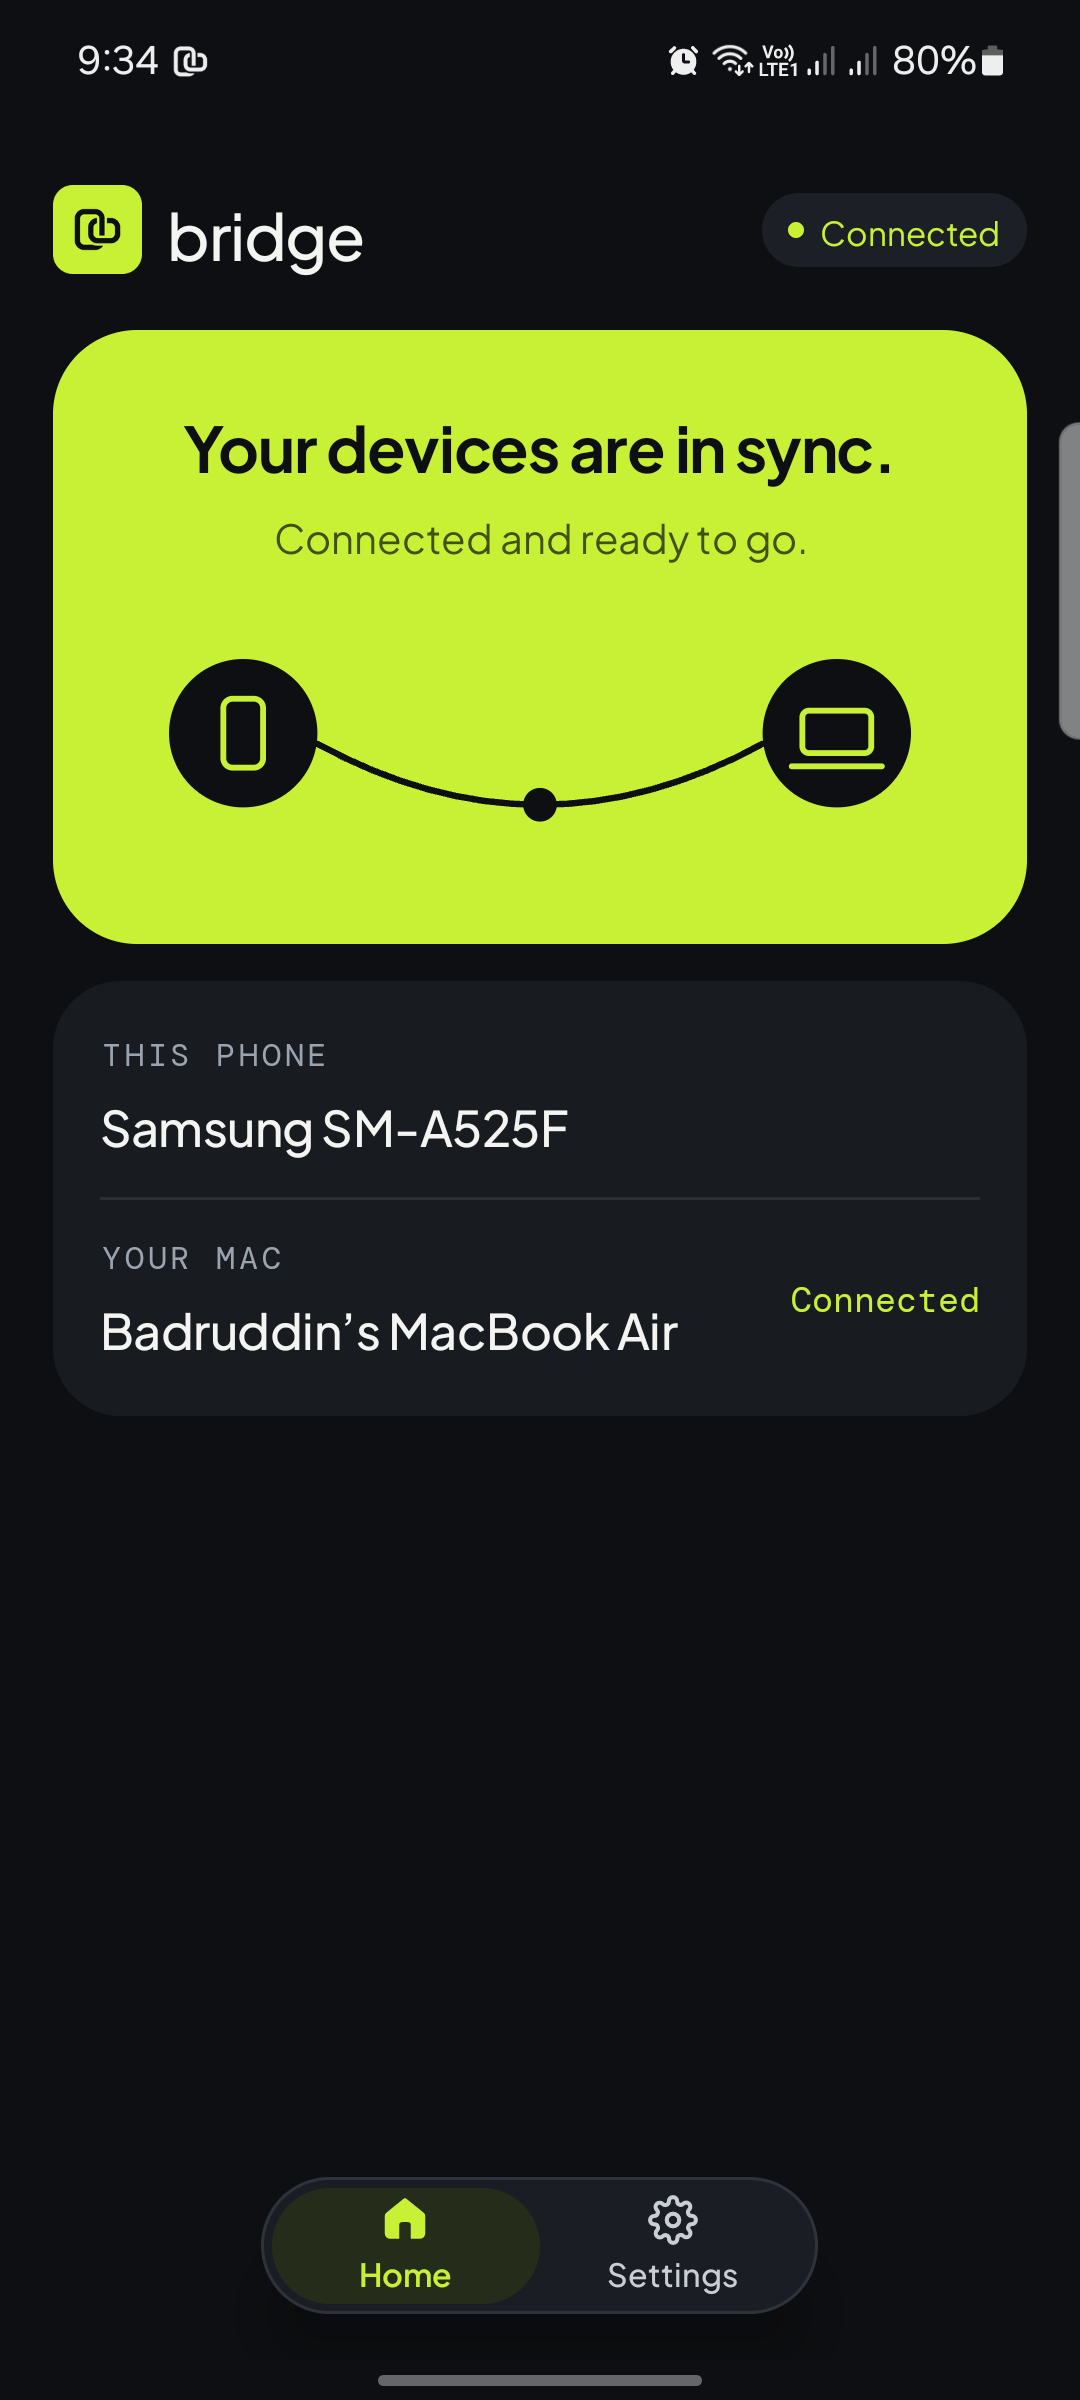
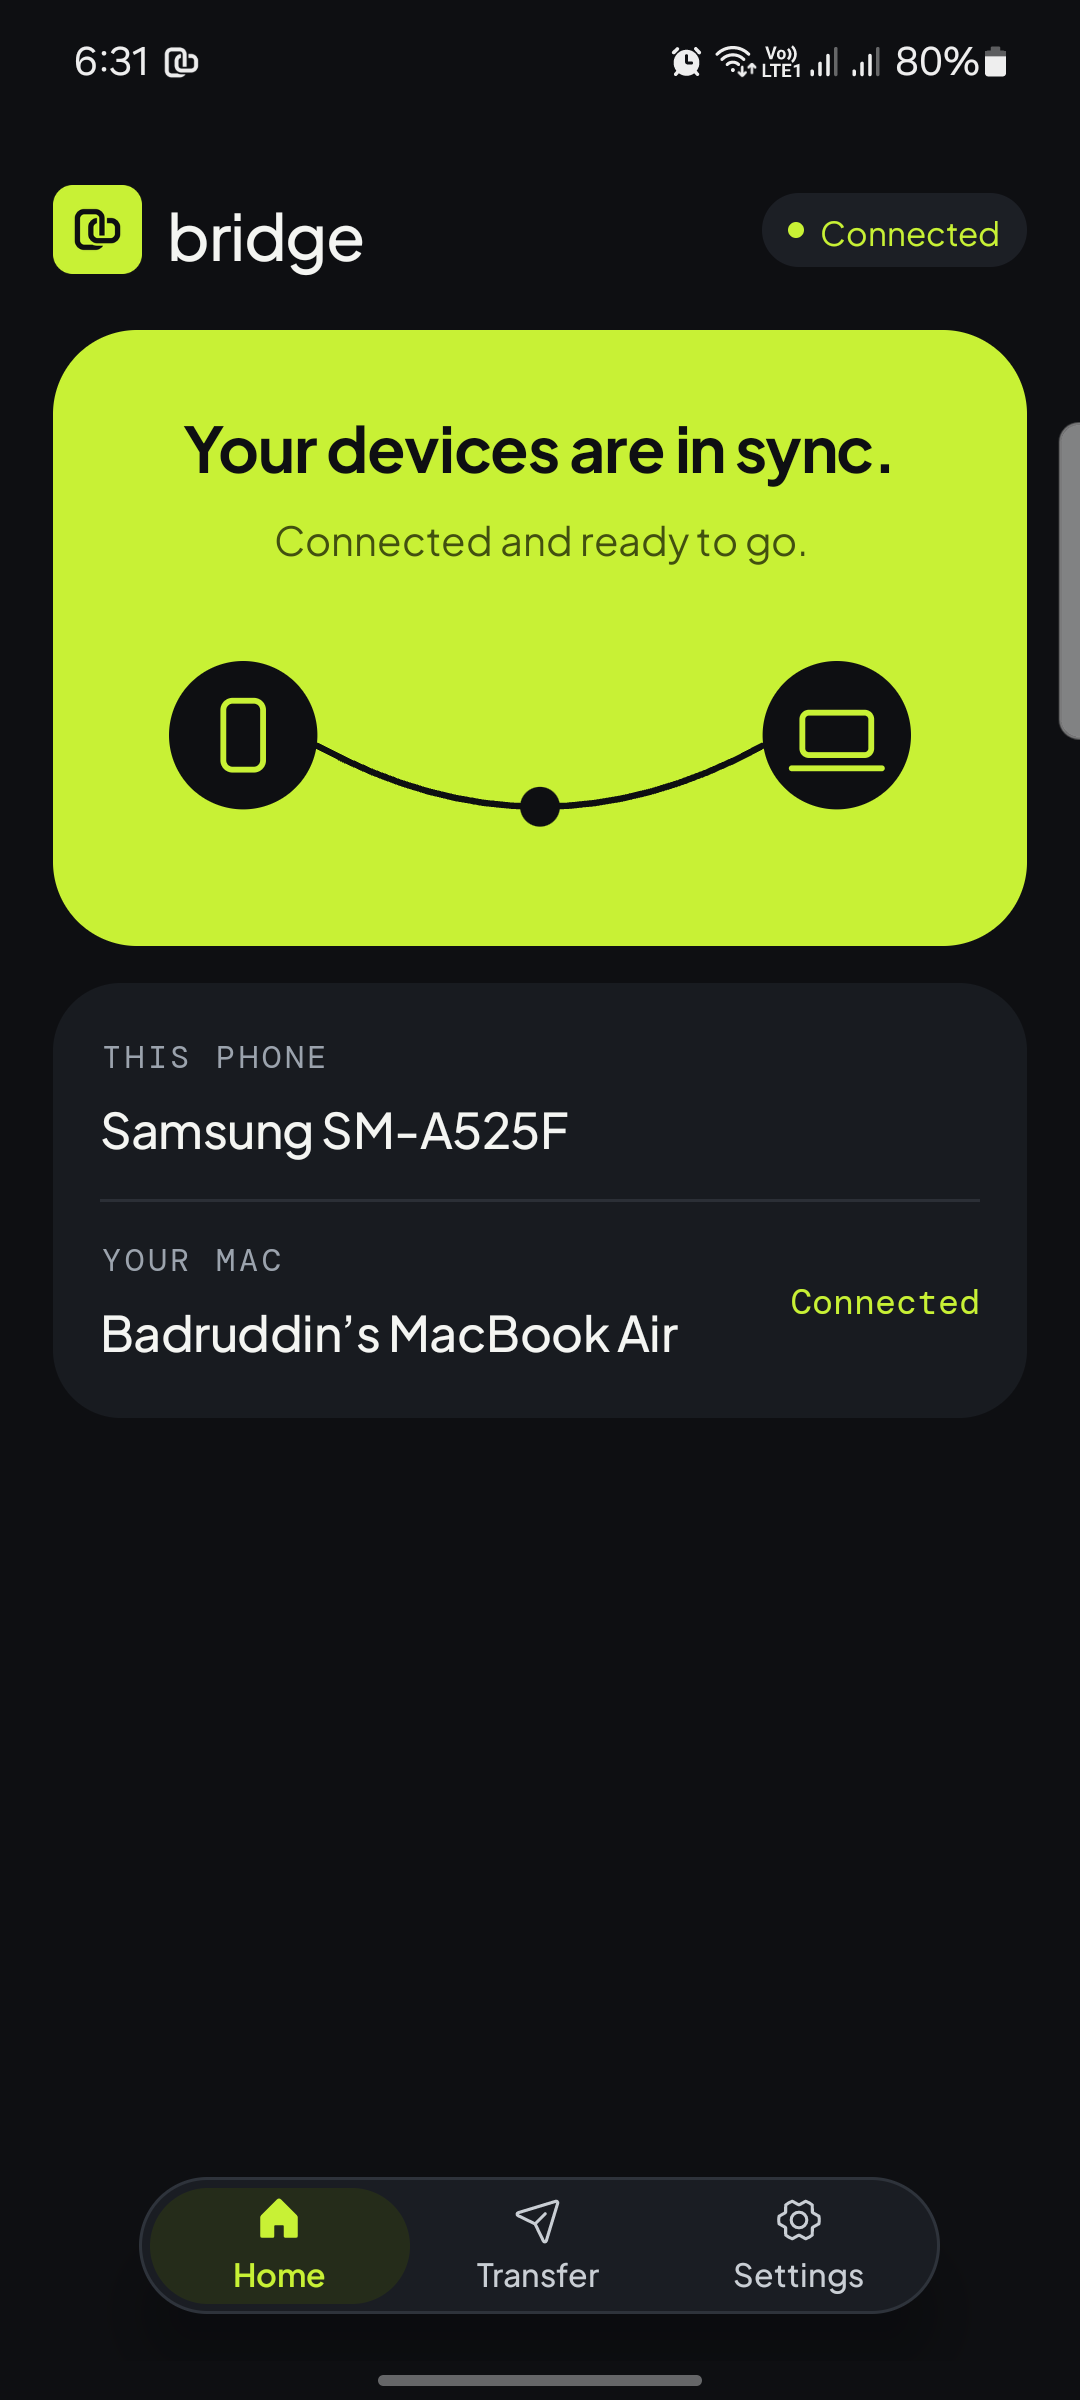
docs: update screenshots in README for v1.3.0 UI release

diff --git a/README.md b/README.md
@@ -26,11 +26,11 @@ A lightweight, native open-source bridge linking your **Android phone** and your
 
 <table align="center">
   <tr>
-    <td align="center"><b>macOS Menu Bar App (Interactive Notifications)</b></td>
-    <td align="center"><b>Android App (Floating Pill Navigation)</b></td>
+    <td align="center"><b>macOS Menu Bar App (Local File Sharing & Transfer)</b></td>
+    <td align="center"><b>Android App (3-Tab Floating Pill Navigation)</b></td>
   </tr>
   <tr>
-    <td align="center"><img src="screenshots/mac/04-mac-connected-notifications-active.png" width="380" alt="macOS Menu Bar Popover with Interactive Notifications" /></td>
+    <td align="center"><img src="screenshots/mac/04-mac-connected-transfer.png" width="380" alt="macOS Menu Bar Popover with File Sharing & Live Transfer" /></td>
     <td align="center"><img src="screenshots/android/01-android-home-connected.png" width="240" alt="Android App Connected Screen" /></td>
   </tr>
 </table>
@@ -177,7 +177,7 @@ Pairing your devices is fast, private, and requires zero account creation:
   </tr>
   <tr>
     <td align="center"><img src="screenshots/android/02-android-home-connected-permissions-needed.png" width="240" alt="Android Permissions Screen" /></td>
-    <td align="center"><img src="screenshots/mac/03-mac-connected-notifications-empty.png" width="340" alt="macOS Connected Ready Screen" /></td>
+    <td align="center"><img src="screenshots/mac/03-mac-connected-devices.png" width="340" alt="macOS Connected Ready Screen" /></td>
   </tr>
 </table>
 
